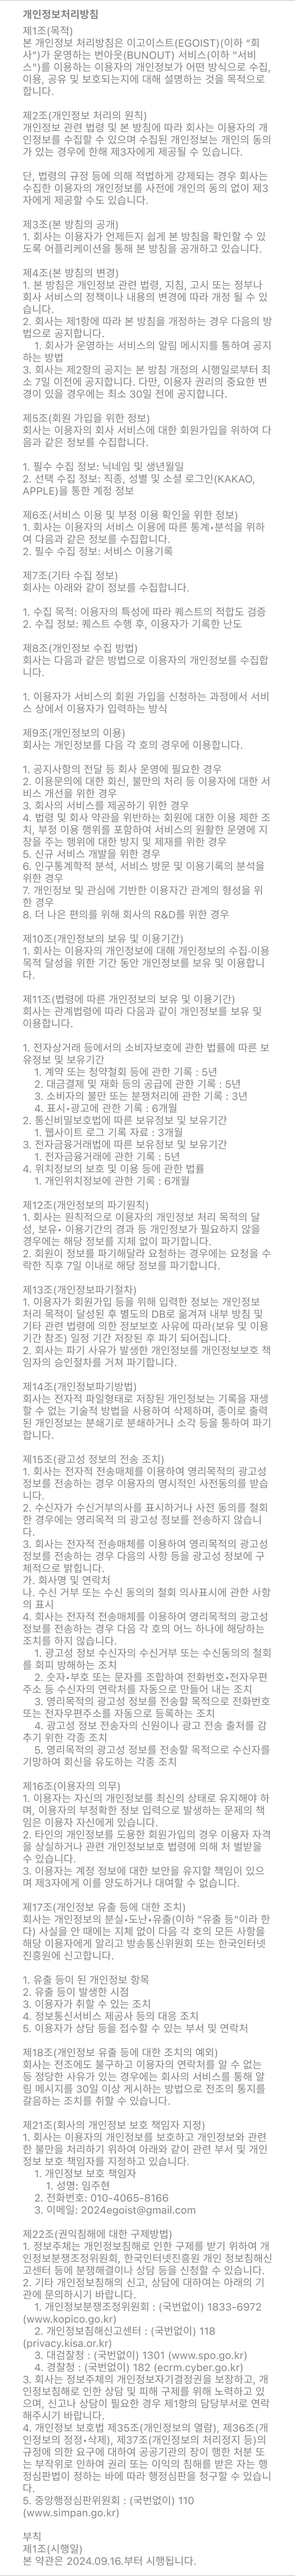
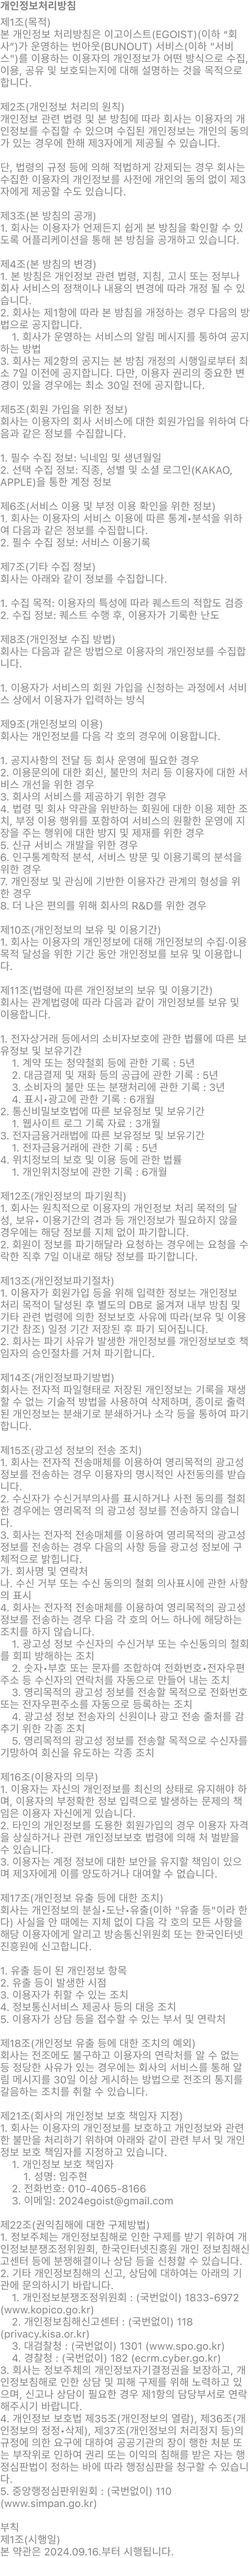
feat : sign페이지 개인정보방침

Changed region(s): [[0.0, 0.0, 0.9931, 1.0], [0.9621, 0.1244, 0.9931, 0.1555]]

diff --git a/src/sign/sign.css b/src/sign/sign.css
@@ -48,6 +48,8 @@
     background-color: #F5F5F5;
     padding: 0.9rem;
     border: 1px solid #D9D9D9;
+    height: 50%;
+    overflow: scroll;
 }
 
 .signpage-btn-area{
